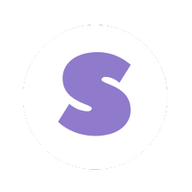
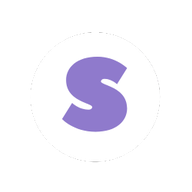
Agent query: Should I proceed with running the migration to rename the rating columns to stars and add the new route identification fields?
Enhance route identification by adding columns and renaming rating columns to stars, improving data consistency and query efficiency.

Screenshot: https://storage.googleapis.com/screenshot-production-us-central1/1f44956e-bc47-48a8-a13e-c5f6222c2089/603db5e7-d107-4d29-96f4-833a25bcf0ba.jpg

diff --git a/utils/icon_generator.py b/utils/icon_generator.py
@@ -1,42 +1,65 @@
 import os
+import logging
 from PIL import Image, ImageDraw
+
+logger = logging.getLogger(__name__)
 
 def generate_pwa_icons():
     """Generate various sized icons for PWA from the source favicon."""
-    source_path = os.path.join('attached_assets', 'solo-favicon.png')
-    static_dir = os.path.join('static', 'images')
-    os.makedirs(static_dir, exist_ok=True)
-
-    # Define the required sizes for different purposes
-    icon_sizes = {
-        'favicon-16x16.png': 16,
-        'favicon-32x32.png': 32,
-        'apple-touch-icon.png': 180,
-        'android-chrome-96x96.png': 96,
-        'android-chrome-192x192.png': 192,
-        'android-chrome-512x512.png': 512
-    }
-
     try:
+        # Get absolute paths
+        current_dir = os.path.dirname(os.path.abspath(__file__))
+        source_path = os.path.join(current_dir, '..', 'attached_assets', 'solo-favicon.png')
+        static_dir = os.path.join(current_dir, '..', 'static', 'images')
+
+        logger.info(f"Generating PWA icons from source: {source_path}")
+        logger.info(f"Output directory: {static_dir}")
+
+        os.makedirs(static_dir, exist_ok=True)
+
+        # Define the required sizes for different purposes
+        icon_sizes = {
+            'favicon-16x16.png': 16,
+            'favicon-32x32.png': 32,
+            'apple-touch-icon.png': 180,
+            'android-chrome-96x96.png': 96,
+            'android-chrome-192x192.png': 192,
+            'android-chrome-512x512.png': 512
+        }
+
+        if not os.path.exists(source_path):
+            logger.error(f"Source favicon not found at: {source_path}")
+            return False
+
         # Open the source image
         with Image.open(source_path) as img:
+            logger.info(f"Source image opened successfully: {img.size} {img.mode}")
+
             # Convert to RGBA if not already
             if img.mode != 'RGBA':
                 img = img.convert('RGBA')
+                logger.info("Converted image to RGBA mode")
 
             # Generate each size
             for filename, target_size in icon_sizes.items():
-                # Create a new image with white background
-                background = Image.new('RGBA', (target_size, target_size), (255, 255, 255, 255))
+                logger.info(f"Generating {filename} ({target_size}x{target_size})")
 
-                # Calculate the size to maintain aspect ratio with padding
-                padding_factor = 0.9  # 10% padding
-                available_size = int(target_size * padding_factor)
+                # Create a square canvas with transparent background
+                icon = Image.new('RGBA', (target_size, target_size), (255, 255, 255, 0))
 
-                # Calculate new dimensions maintaining aspect ratio
-                ratio = min(available_size / img.width, available_size / img.height)
-                new_width = int(img.width * ratio)
-                new_height = int(img.height * ratio)
+                # Calculate size to maintain aspect ratio
+                aspect_ratio = img.width / img.height
+                if aspect_ratio > 1:
+                    new_width = target_size
+                    new_height = int(target_size / aspect_ratio)
+                else:
+                    new_height = target_size
+                    new_width = int(target_size * aspect_ratio)
+
+                # Add padding to prevent edge touching
+                padding = int(target_size * 0.1)  # 10% padding
+                new_width = min(new_width, target_size - padding * 2)
+                new_height = min(new_height, target_size - padding * 2)
 
                 # Resize the image with high-quality resampling
                 resized = img.resize((new_width, new_height), Image.Resampling.LANCZOS)
@@ -45,24 +68,35 @@ def generate_pwa_icons():
                 x = (target_size - new_width) // 2
                 y = (target_size - new_height) // 2
 
-                # Create a circular mask if size is large enough
+                # For larger icons, create circular mask
                 if target_size >= 96:
+                    # Create circular mask
                     mask = Image.new('L', (target_size, target_size), 0)
                     draw = ImageDraw.Draw(mask)
                     draw.ellipse((0, 0, target_size, target_size), fill=255)
-                    background.putalpha(mask)
 
-                # Paste the resized image onto the background
-                background.paste(resized, (x, y), resized)
+                    # Apply mask to resized image
+                    output = Image.new('RGBA', (target_size, target_size), (255, 255, 255, 0))
+                    output.paste(resized, (x, y), resized)
+                    output.putalpha(mask)
+                else:
+                    output = icon
+                    output.paste(resized, (x, y), resized)
 
-                # Save the final icon with high quality
+                # Save with high quality
                 output_path = os.path.join(static_dir, filename)
-                background.save(output_path, 'PNG', quality=95)
+                if filename.endswith('.png'):
+                    output.save(output_path, 'PNG', quality=95, optimize=True)
+                else:
+                    output.save(output_path, quality=95, optimize=True)
+                logger.info(f"Saved icon: {output_path}")
 
+        logger.info("PWA icons generated successfully")
         return True
     except Exception as e:
-        print(f"Error generating PWA icons: {str(e)}")
+        logger.error(f"Error generating PWA icons: {str(e)}")
         return False
 
 if __name__ == '__main__':
+    logging.basicConfig(level=logging.INFO)
     generate_pwa_icons()

diff --git a/migrations/versions/001_enhance_route_identification.py b/migrations/versions/001_enhance_route_identification.py
@@ -13,30 +13,44 @@ branch_labels = None
 depends_on = None
 
 def upgrade():
-    # Add new columns to route table
+    # Add new columns for enhanced route identification
     op.add_column('route', sa.Column('wall_sector', sa.String(50), nullable=False, server_default='Main Wall'))
     op.add_column('route', sa.Column('route_type', sa.String(20), nullable=False, server_default='top_rope'))
     op.add_column('route', sa.Column('height_meters', sa.Float(), nullable=True))
     op.add_column('route', sa.Column('active', sa.Boolean(), nullable=False, server_default='true'))
     op.add_column('route', sa.Column('anchor_number', sa.Integer(), nullable=True))
     op.add_column('route', sa.Column('hold_style', sa.String(50), nullable=True))
-    op.add_column('route', sa.Column('tags', sa.String(200), nullable=True))
-    op.add_column('route', sa.Column('avg_rating', sa.Float(), nullable=False, server_default='0'))
-    op.add_column('route', sa.Column('rating_count', sa.Integer(), nullable=False, server_default='0'))
+
+    # Rename existing rating columns to stars for consistency
+    op.alter_column('route', 'avg_rating', 
+                    new_column_name='avg_stars',
+                    existing_type=sa.Float(),
+                    existing_nullable=True)
+    op.alter_column('route', 'rating_count', 
+                    new_column_name='stars_count',
+                    existing_type=sa.Integer(),
+                    existing_nullable=True)
 
     # Create indexes for efficient querying
     op.create_index('idx_route_location', 'route', ['gym_id', 'wall_sector', 'anchor_number'])
     op.create_index('idx_route_search', 'route', ['gym_id', 'active', 'grade_id', 'color'])
 
 def downgrade():
-    # Drop indexes
+    # Drop indexes first to avoid dependency issues
     op.drop_index('idx_route_search')
     op.drop_index('idx_route_location')
 
-    # Drop columns
-    op.drop_column('route', 'rating_count')
-    op.drop_column('route', 'avg_rating')
-    op.drop_column('route', 'tags')
+    # Rename stars columns back to rating
+    op.alter_column('route', 'avg_stars', 
+                    new_column_name='avg_rating',
+                    existing_type=sa.Float(),
+                    existing_nullable=True)
+    op.alter_column('route', 'stars_count', 
+                    new_column_name='rating_count',
+                    existing_type=sa.Integer(),
+                    existing_nullable=True)
+
+    # Drop added columns in reverse order
     op.drop_column('route', 'hold_style')
     op.drop_column('route', 'anchor_number')
     op.drop_column('route', 'active')

diff --git a/models.py b/models.py
@@ -60,11 +60,10 @@ class Route(db.Model):
     active = db.Column(db.Boolean, default=True)  # Whether the route is currently set
     anchor_number = db.Column(db.Integer)  # Physical anchor/station number
     hold_style = db.Column(db.String(50))  # Type of holds used (crimps, jugs, etc)
-    tags = db.Column(db.String(200))  # Comma-separated tags for route characteristics
 
-    # Aggregated rating
-    avg_rating = db.Column(db.Float, default=0)
-    rating_count = db.Column(db.Integer, default=0)
+    # Aggregated stars (renamed from rating)
+    avg_stars = db.Column(db.Float, default=0)
+    stars_count = db.Column(db.Integer, default=0)
 
     # Relationships
     climbs = db.relationship('Climb', backref='route', lazy='dynamic', cascade='all, delete-orphan')
@@ -79,10 +78,10 @@ class Route(db.Model):
     def __repr__(self):
         return f'<Route {self.route_id} - {self.color} {self.grade} ({self.wall_sector})>'
 
-    def update_rating(self, new_rating):
-        """Update the average rating when a new rating is added"""
-        self.avg_rating = ((self.avg_rating * self.rating_count) + new_rating) / (self.rating_count + 1)
-        self.rating_count += 1
+    def update_stars(self, new_stars):
+        """Update the average stars when a new rating is added"""
+        self.avg_stars = ((self.avg_stars * self.stars_count) + new_stars) / (self.stars_count + 1)
+        self.stars_count += 1
 
     @property
     def full_identifier(self):
